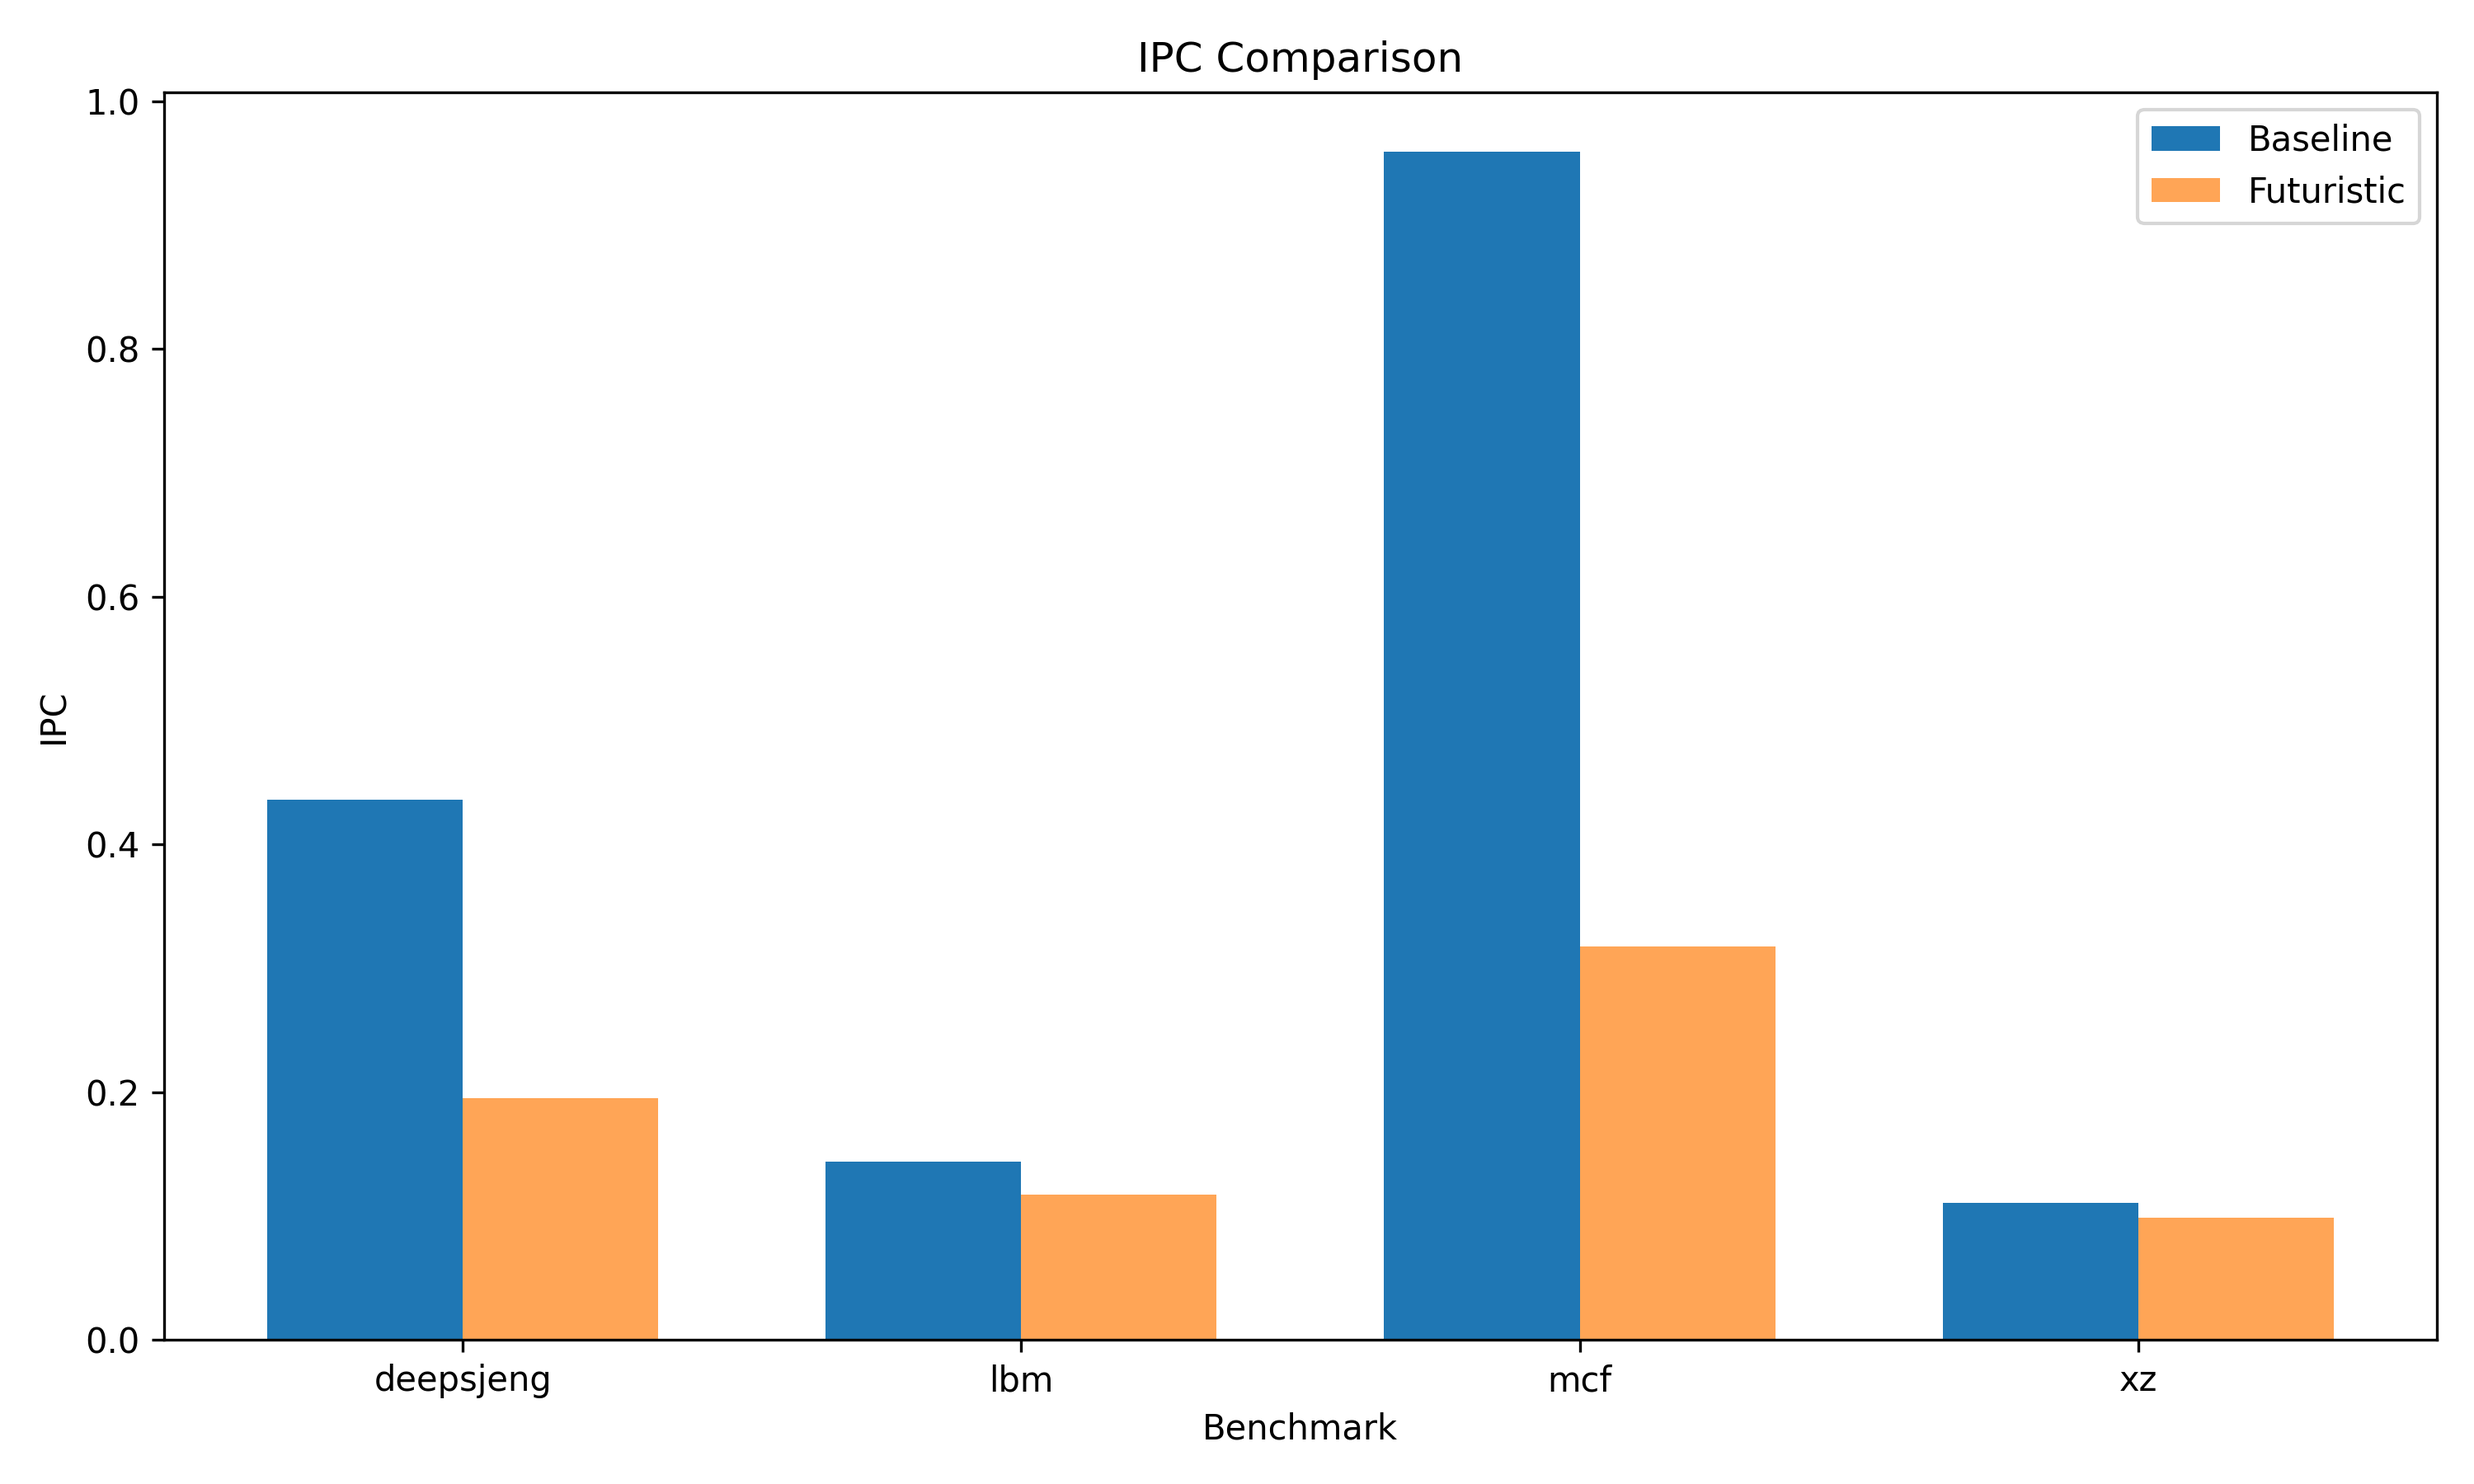
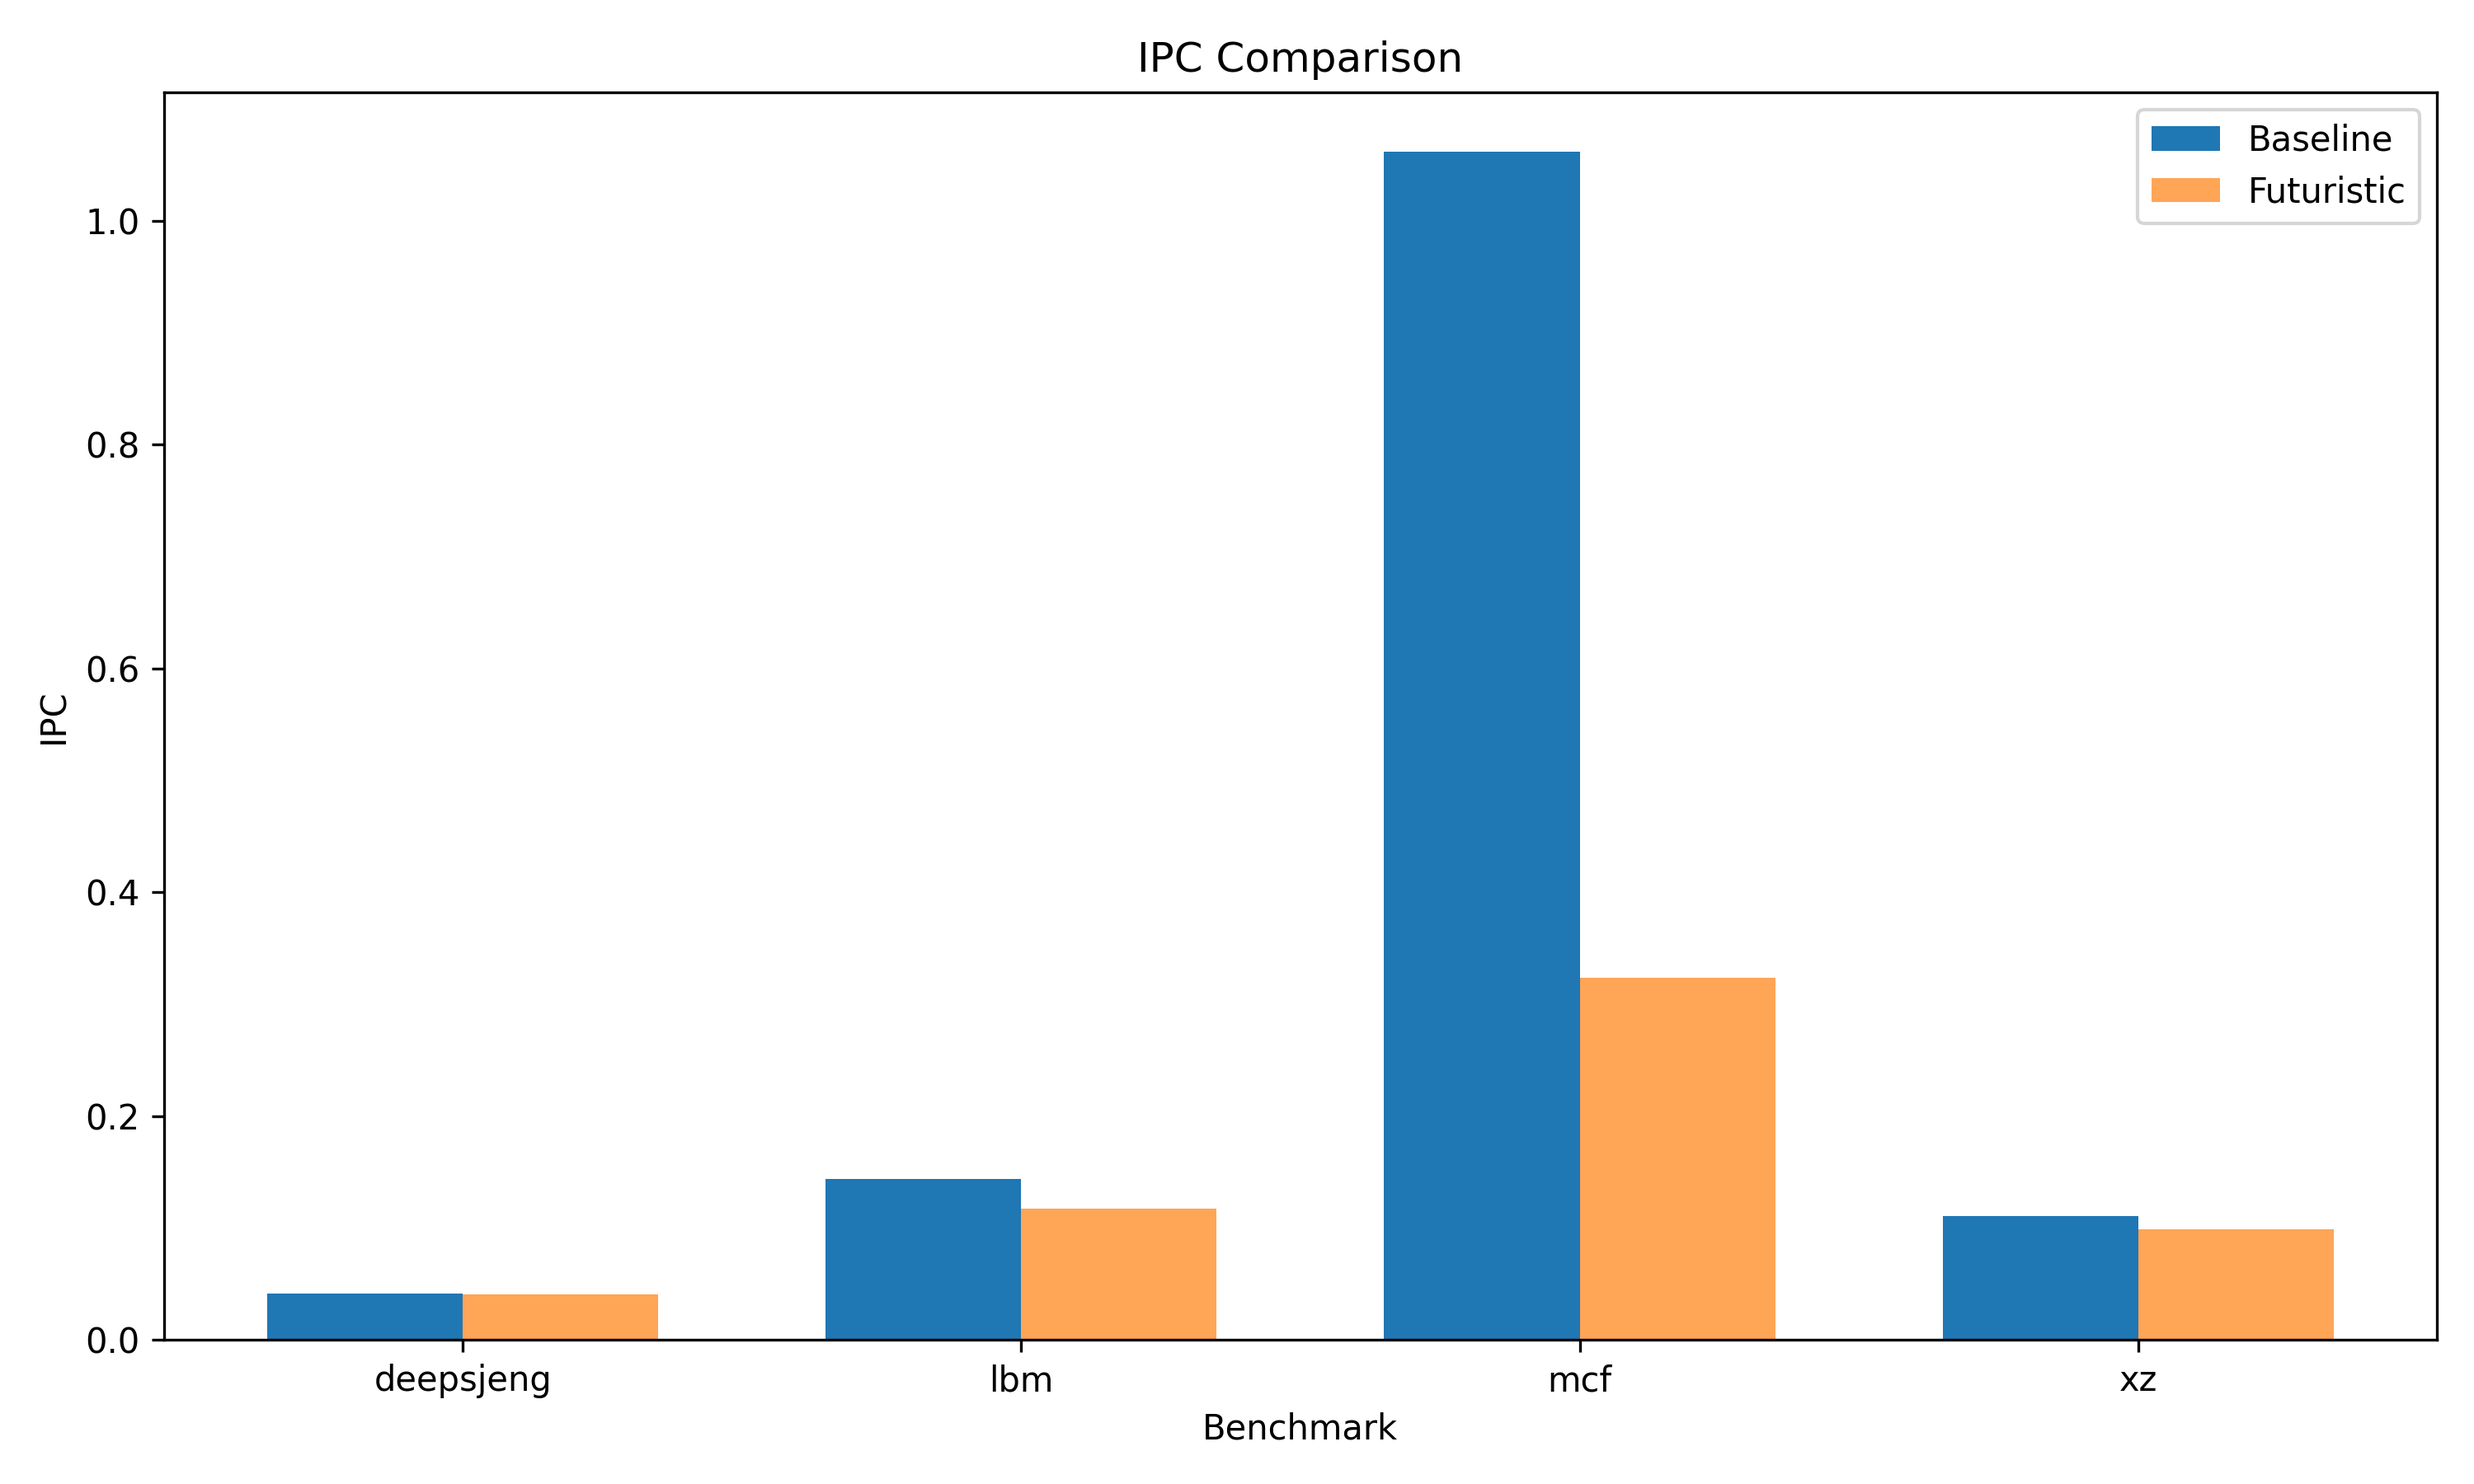
Add evaluation section to report

diff --git a/scripts/plots.py b/scripts/plots.py
@@ -81,15 +81,18 @@ def plot_normalized(pivot_df):
     labels = pivot_df["benchmark"]
     values = pivot_df["normalized"]
 
-    plt.figure(figsize=(10, 6))
+    fig, ax = plt.subplots(figsize=(10, 6))
 
-    plt.bar(labels, values, width=0.5)
+    bar_container = ax.bar(labels, values, width=0.5, alpha=0.7)
 
-    plt.axhline(1.0, color="red", linestyle="--", linewidth=1.5)  
+    ax.axhline(1.0, color="red", linestyle="--", linewidth=1.5)
 
-    plt.xlabel("Benchmark")
-    plt.ylabel("Normalized Execution Time (Cycles / Baseline)")
-    plt.title("Normalized STT Performance")
+    # 🔹 Add labels on bars
+    ax.bar_label(bar_container, fmt="%.2f")
+
+    ax.set_xlabel("Benchmark")
+    ax.set_ylabel("Normalized Execution Time (Cycles / Baseline)")
+    ax.set_title("Normalized STT Performance")
 
     plt.tight_layout()
     plt.savefig(PLOTS_DIR / "normalized_execution_time.png", dpi=300)
@@ -122,6 +125,11 @@ def plot_ipc(df):
 if __name__ == "__main__":
     df = get_data()
     plot_ipc(df)
-
+    print("==== Raw data ====")
+    print(df)
+    
     pivot_df = compute_normalized(df)
+    print("")
+    print("==== Norm data ====")
+    print(pivot_df)
     plot_normalized(pivot_df)

diff --git a/REPORT.md b/REPORT.md
@@ -1,0 +1,83 @@
+# Speculative Taint Tracking in gem5: Design and Performance Evaluation
+
+**Seulah Kim, Wonchan Kim**
+
+Simon Fraser University  
+
+---
+
+## Abstract
+
+---
+
+## 1. Introduction
+
+---
+
+## 2. Background
+
+Speculative Execution and Spectre
+
+Out-of-Order Processors
+
+Speculative Taint Tracking (STT)
+
+---
+
+## 3. System Design and Implementation
+
+---
+
+## 4. Evaluation
+
+### 4.1 Experimental Setup
+
+All experiments are performed using the gem5 simulator with the out-of-order (O3) CPU model. The simulation environment is used to evaluate the performance impact of Speculative Taint Tracking (STT).
+
+The evaluation compares two configurations: a baseline processor without STT and a processor with STT enabled using the Futuristic threat model. 
+
+Benchmarks from the SPEC CPU2017 are used to represent realistic workloads. Each benchmark is executed in the gem5 simulation environment, and performance data is collected from the simulator output.
+
+To keep the simulation time reasonable, each benchmark is executed for a maximum of 15 million instructions. Since simulation in gem5 is computationally expensive, this limit allows experimentations to finish in a practical amount of time while still allowing fair comparison. Both configurations are evaluated under same execution conditions to ensure fair comparison.
+
+### 4.2 Performance Metrics
+
+To evaluate the performance impact of Speculative Taint Tracking (STT), two metrics are used.
+
+Instructions Per Cycle (IPC) measures how many instructions are executed per cycle. It shows how efficiently the processor is running. A lower IPC indicates reduced performance.
+
+Normalized execution time is calculated by dividing the execution time (in cycles) of the STT-enabled configuration by the execution time of the baseline configuration. A value greater than 1 indicates that the STT-enabled configuration takes longer to execute, representing performance overhead.
+
+### 4.3 Results
+
+![ipc.png](plots/ipc.png)
+|:--:| 
+| **Figure 1: IPC Comparison between Configurations** |
+
+![norm.png](plots/normalized_execution_time.png)
+|:--:| 
+| **Figure 2: Normalized Execution Time of STT relative to Baseline** |
+
+Figure 1 shows the IPC comparison between the baseline and STT-enabled configurations. Across all benchmarks, IPC decreases when STT is enabled, indicating a performance slowdown. The performance drop is relatively small for `deepsjeng`, `lbm`, and `xz` where IPC values remain close to the baseline. However, `mcf` shows a significant drop in IPC, with the STT-enabled configuration achieving much lower throughput. This reduction in IPC directly corresponds to the increased execution time observed in Figure 2.
+
+Figure 2 shows the normalized execution time of the STT-enabled configuration relative to the baseline. The results follow a similar trend. `deepsjeng`, `lbm`, and `xz` show only modest overhead, but `mcf` shows a significant slowdown of approximately 3.28x, indicating a substantial performance degradation.
+
+The results indicate that the performance overhead introduced by STT is highly dependent on the workload. The `mcf` benchmark shows the largest slowdown because it is memory-bound and dominated by pointer-chasing behavior. In our implementation, taint propagation introduces additional dependency tracking and increases pipeline stalls, which particularly affects workloads with long chains of dependent memory operations. In contrast, benchmarks with fewer memory dependencies experience significantly lower overhead.
+
+### 4.4 Limitations
+
+---
+
+## 5. Conclusion
+
+---
+
+## 6. References
+
+---
+
+## 7. Appendix
+
+### 7.1 Project Contributions
+
+### 7.2 How to Run the Code
